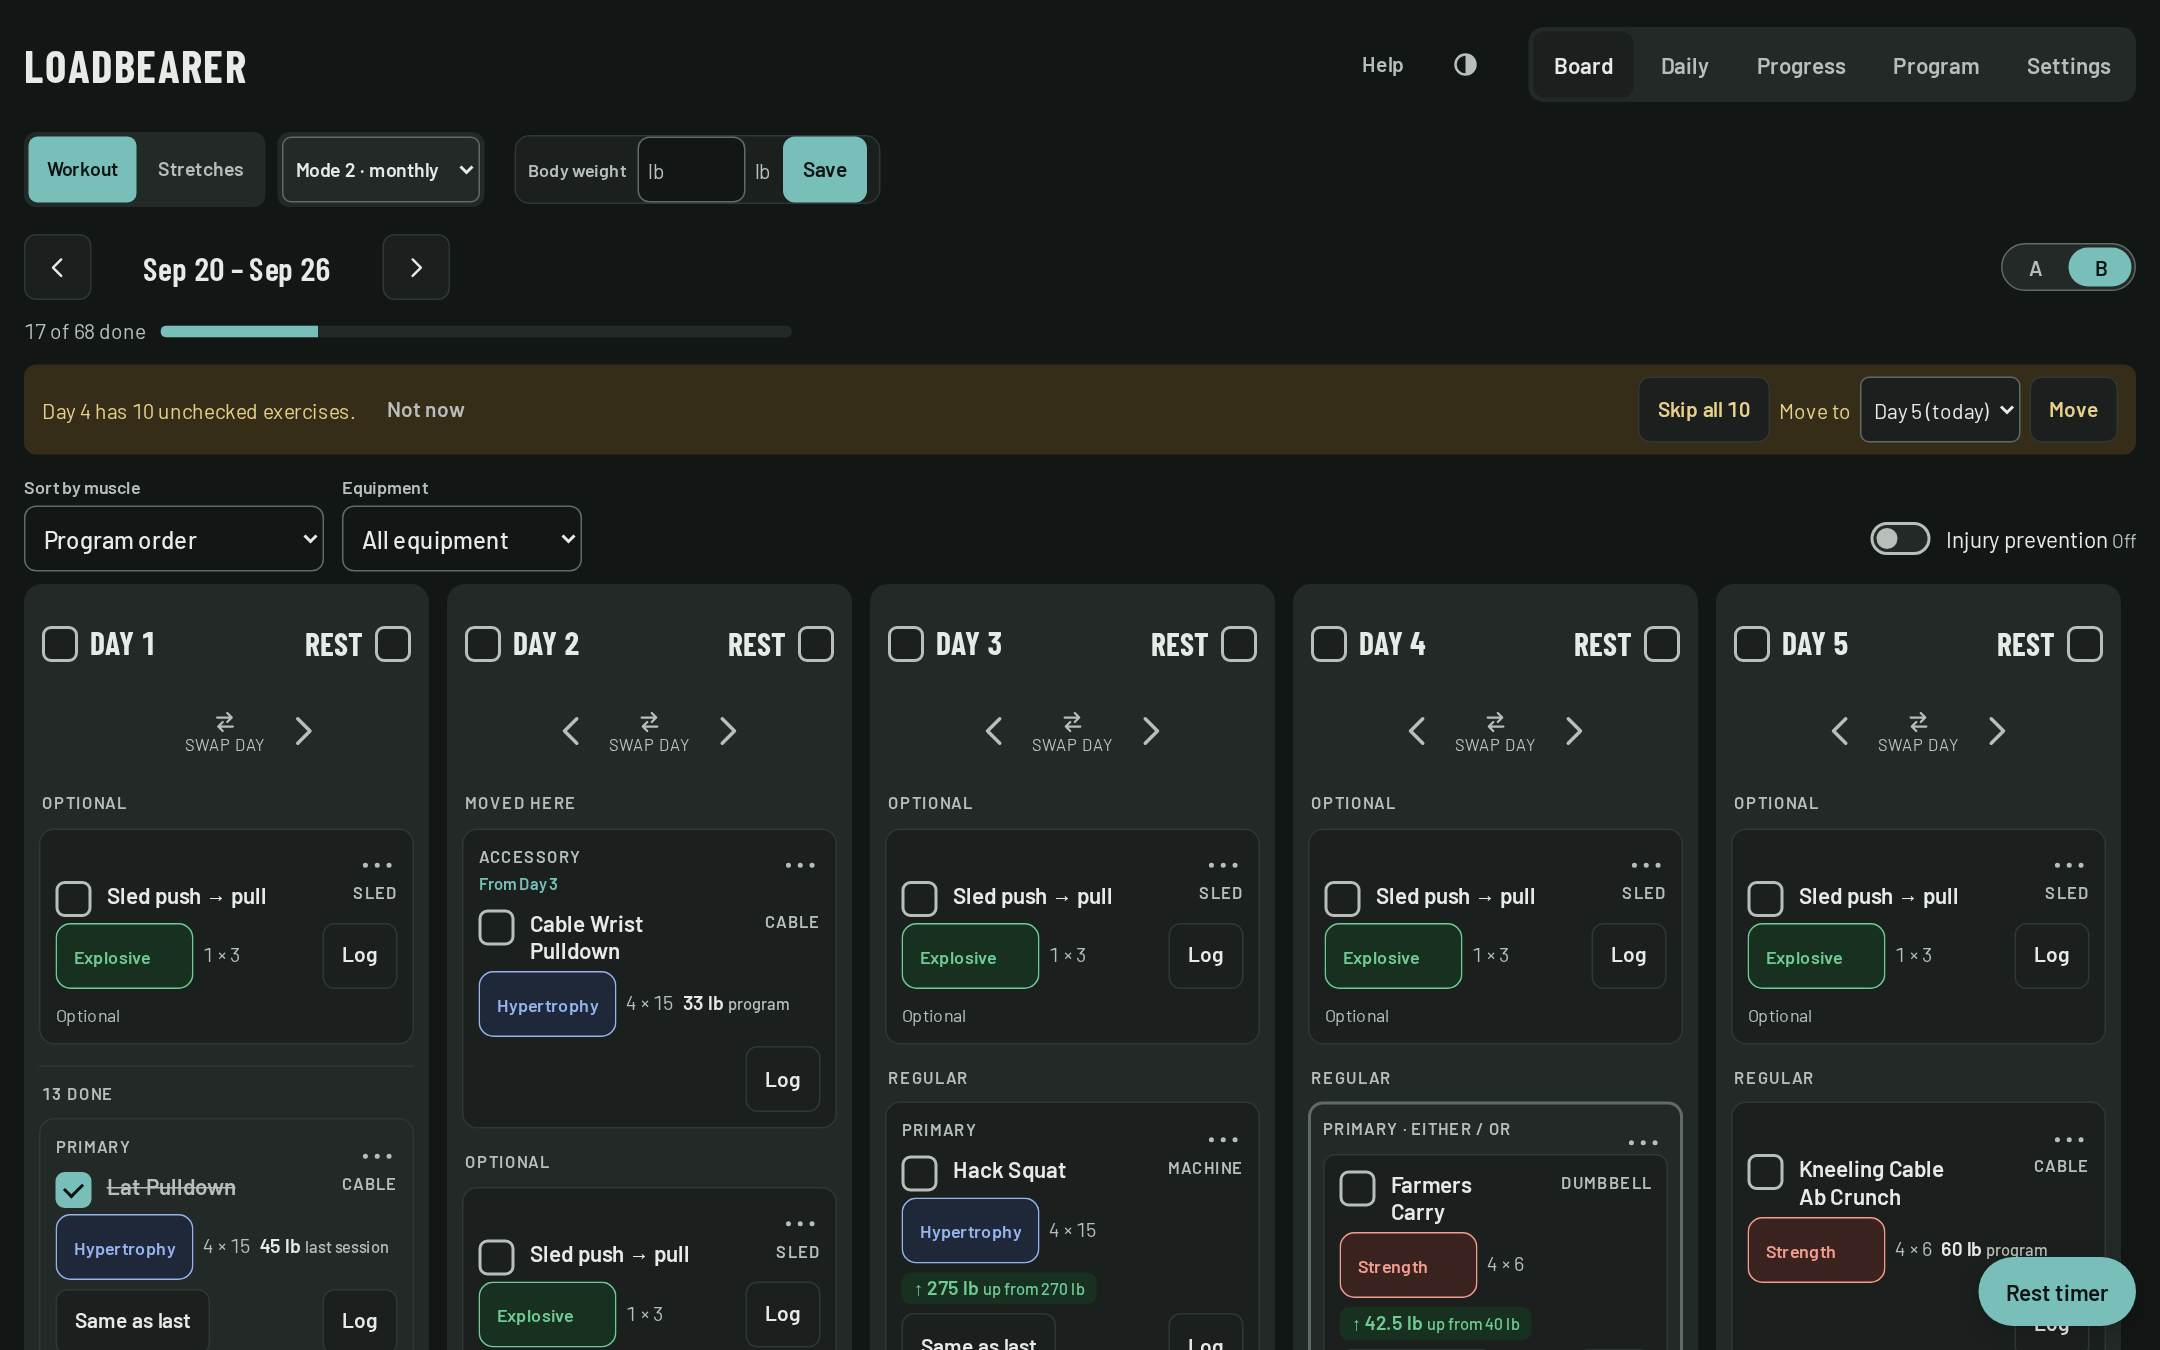
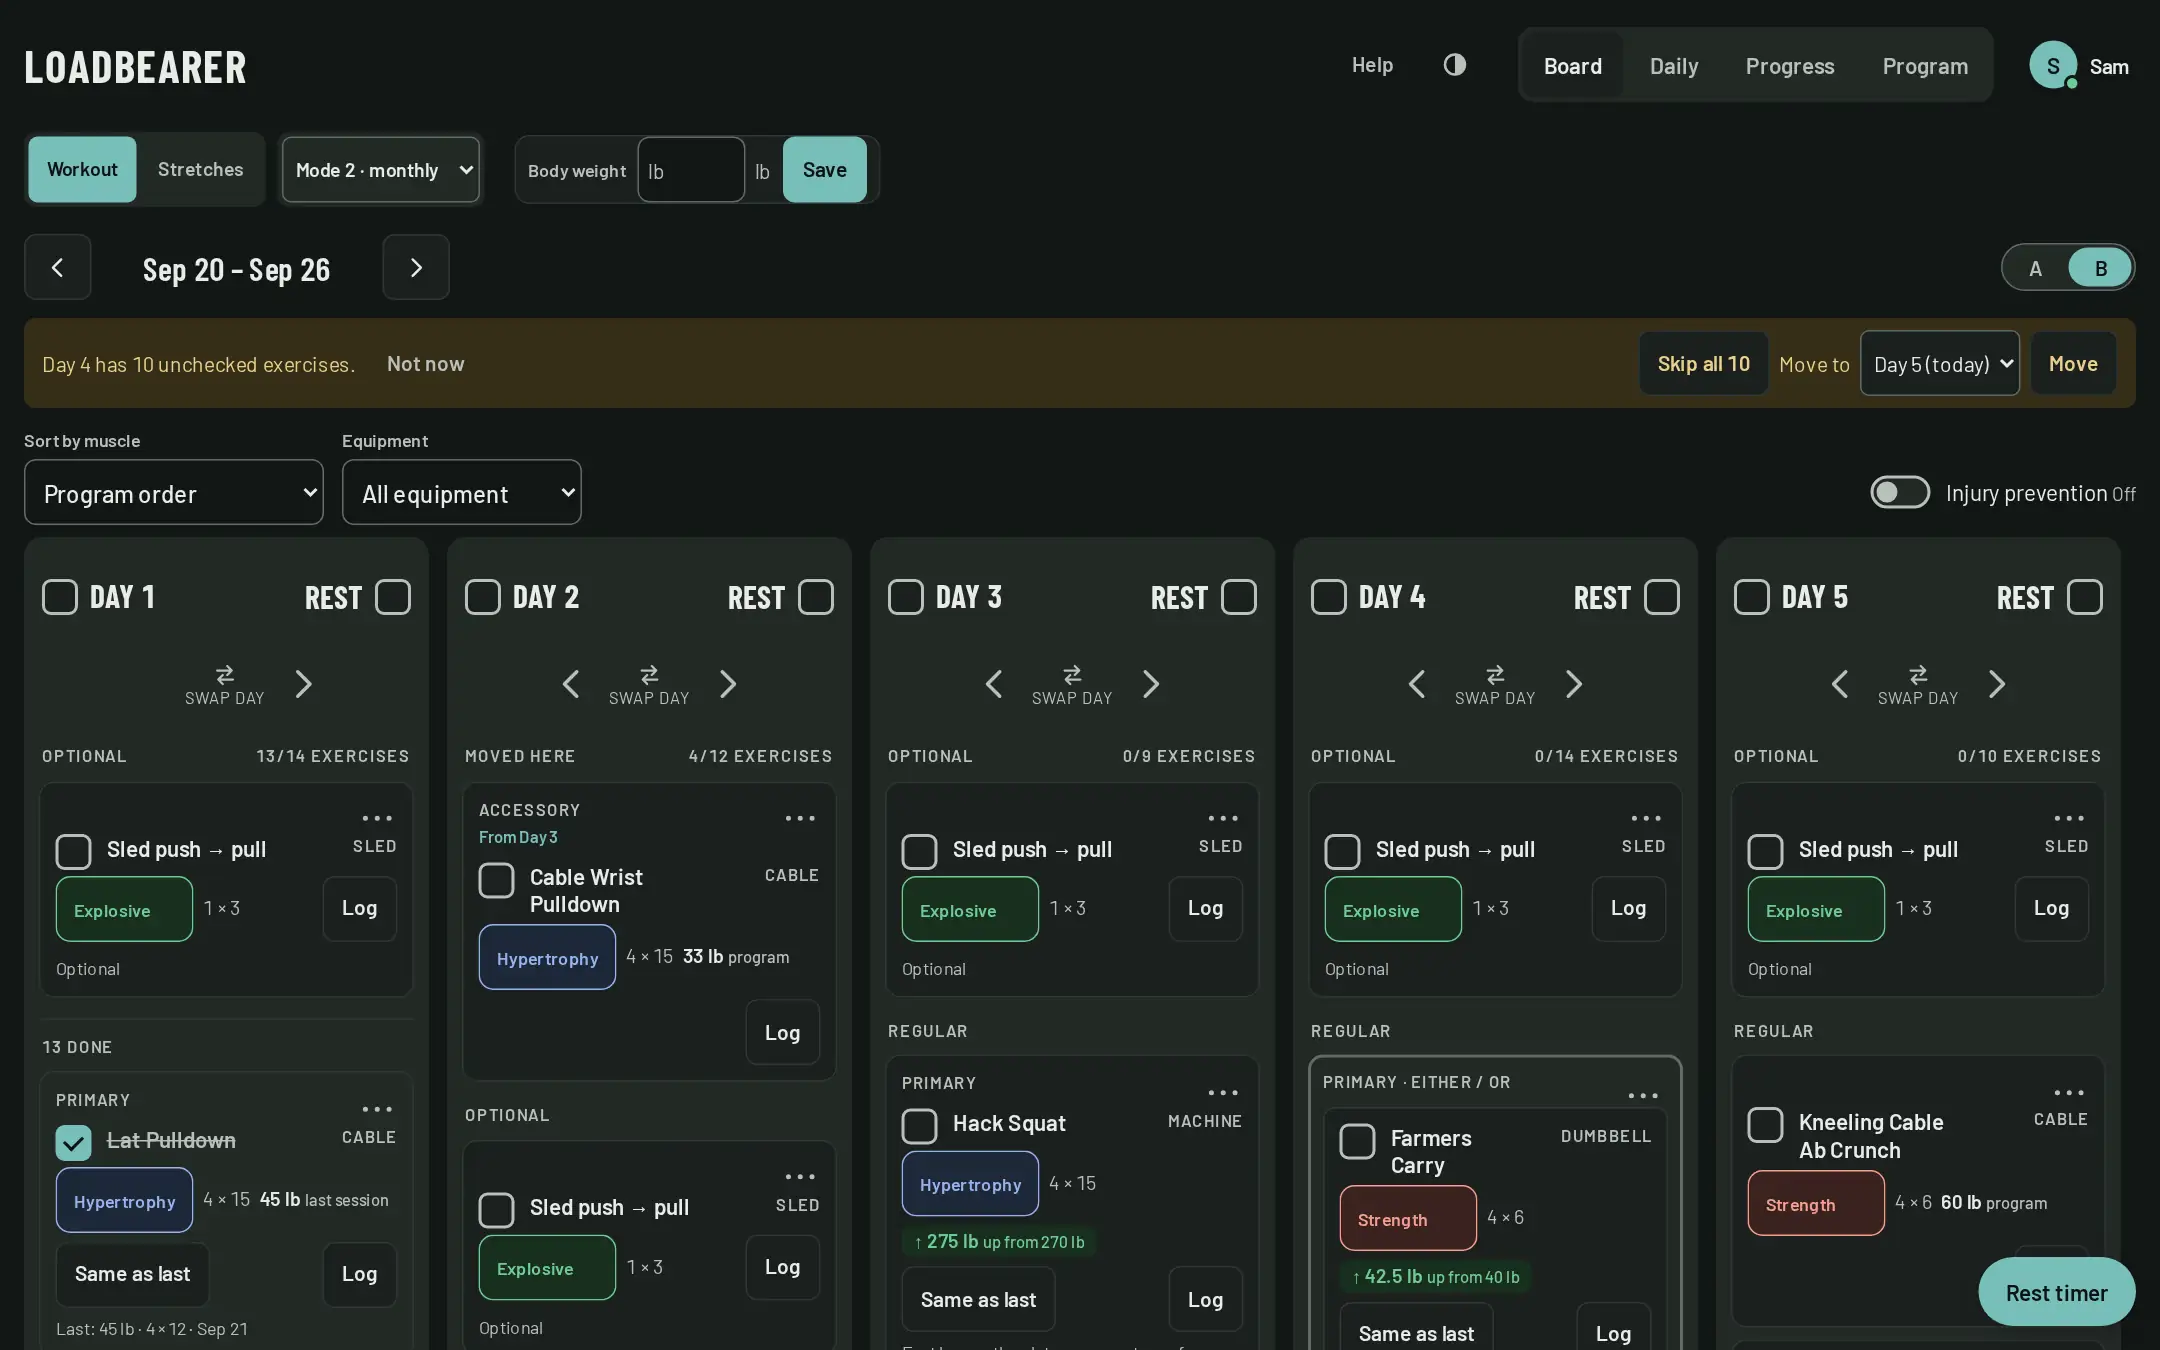
Landing screenshots show the signed-in app; the header title goes to the Board
Owner request. The sign-in landing page's two board screenshots are regenerated from tools/screenshots.mjs, which now draws the signed-in look (no Settings tab, an account badge, as App.tsx draws it when someone is signed in). They also show the current Board (no week progress bar, desktop day counts). The header title Loadbearer is a button in the h1 that goes to the Board tab and scrolls to the top, same look, 44px target, aria-current on the Board. Covered by e2e/brandLink.spec.js. Brief: briefs/landing-and-title.md.

diff --git a/e2e/brandLink.spec.js b/e2e/brandLink.spec.js
@@ -1,0 +1,29 @@
+import { test, expect } from './fixtures.js';
+
+const title = page => page.getByRole('button', { name: 'Loadbearer' });
+
+test('the app title goes back to the Board from any tab', async ({ page }) => {
+  for (const tab of ['program', 'progress', 'daily']) {
+    await page.click(`#tab-${tab}`);
+    await expect(page.locator(`#tab-${tab}`)).toHaveAttribute('aria-selected', 'true');
+    await title(page).click();
+    await expect(page.locator('#tab-board')).toHaveAttribute('aria-selected', 'true');
+  }
+});
+
+test('the title works from the keyboard and marks the Board as the current page', async ({ page }) => {
+  await page.click('#tab-program');
+  await expect(title(page)).not.toHaveAttribute('aria-current', 'page');
+  await title(page).focus();
+  await page.keyboard.press('Enter');
+  await expect(page.locator('#tab-board')).toHaveAttribute('aria-selected', 'true');
+  await expect(title(page)).toHaveAttribute('aria-current', 'page');
+});
+
+test('the title still reads as the heading and keeps a 44px target on a phone', async ({ page }) => {
+  await page.setViewportSize({ width: 390, height: 844 });
+  await expect(page.getByRole('heading', { level: 1, name: 'Loadbearer' })).toBeVisible();
+  const box = await title(page).boundingBox();
+  expect(box.height).toBeGreaterThanOrEqual(44);
+  expect(box.width).toBeGreaterThanOrEqual(44);
+});

diff --git a/src/App.tsx b/src/App.tsx
@@ -18,6 +18,7 @@ import ErrorBoundary from './components/ErrorBoundary.js';
 import { lazyTab, mapChunkError } from './lib/lazyTab.js';
 import { renewPush } from './lib/pushClient.js';
 import { useWaterReminder } from './hooks/useWaterReminder.js';
+import './components/BrandLink.css';
 
 // The Board (the first screen) and the shell are in the main bundle; the other tabs are fetched when first opened. Every chunk is in the
 // service worker's precache, so they open offline too.
@@ -102,7 +103,7 @@ export default function App() {
       <a className="skip" href="#view">Skip to content</a>
       <div className="wrap">
         <header className="top">
-          <h1>Loadbearer</h1>
+          <h1><button type="button" className="brandlink" aria-current={tab === 'board' ? 'page' : undefined} onClick={() => { setTab('board'); window.scrollTo({ top: 0 }); }}>Loadbearer</button></h1>
           <div className="topact">
             <button type="button" className="btn ghost helpbtn" id="help-btn" onClick={() => openModal({ type: 'help' })}>Help</button>
             <ThemeButton />

diff --git a/src/components/BrandLink.css b/src/components/BrandLink.css
@@ -1,0 +1,18 @@
+@layer base, components;
+@layer components {
+/* The app title in the header is a button that goes back to the Board. It looks like the plain title it replaced (same size, case and
+   spacing as `header.top h1`); only the 44px target, the pointer and the focus ring are new. */
+header.top h1 .brandlink {
+  display: inline-flex;
+  align-items: center;
+  min-height: 44px;
+  padding: 0;
+  border: 0;
+  background: none;
+  color: inherit;
+  font: inherit;
+  letter-spacing: inherit;
+  text-transform: inherit;
+  cursor: pointer;
+}
+}
